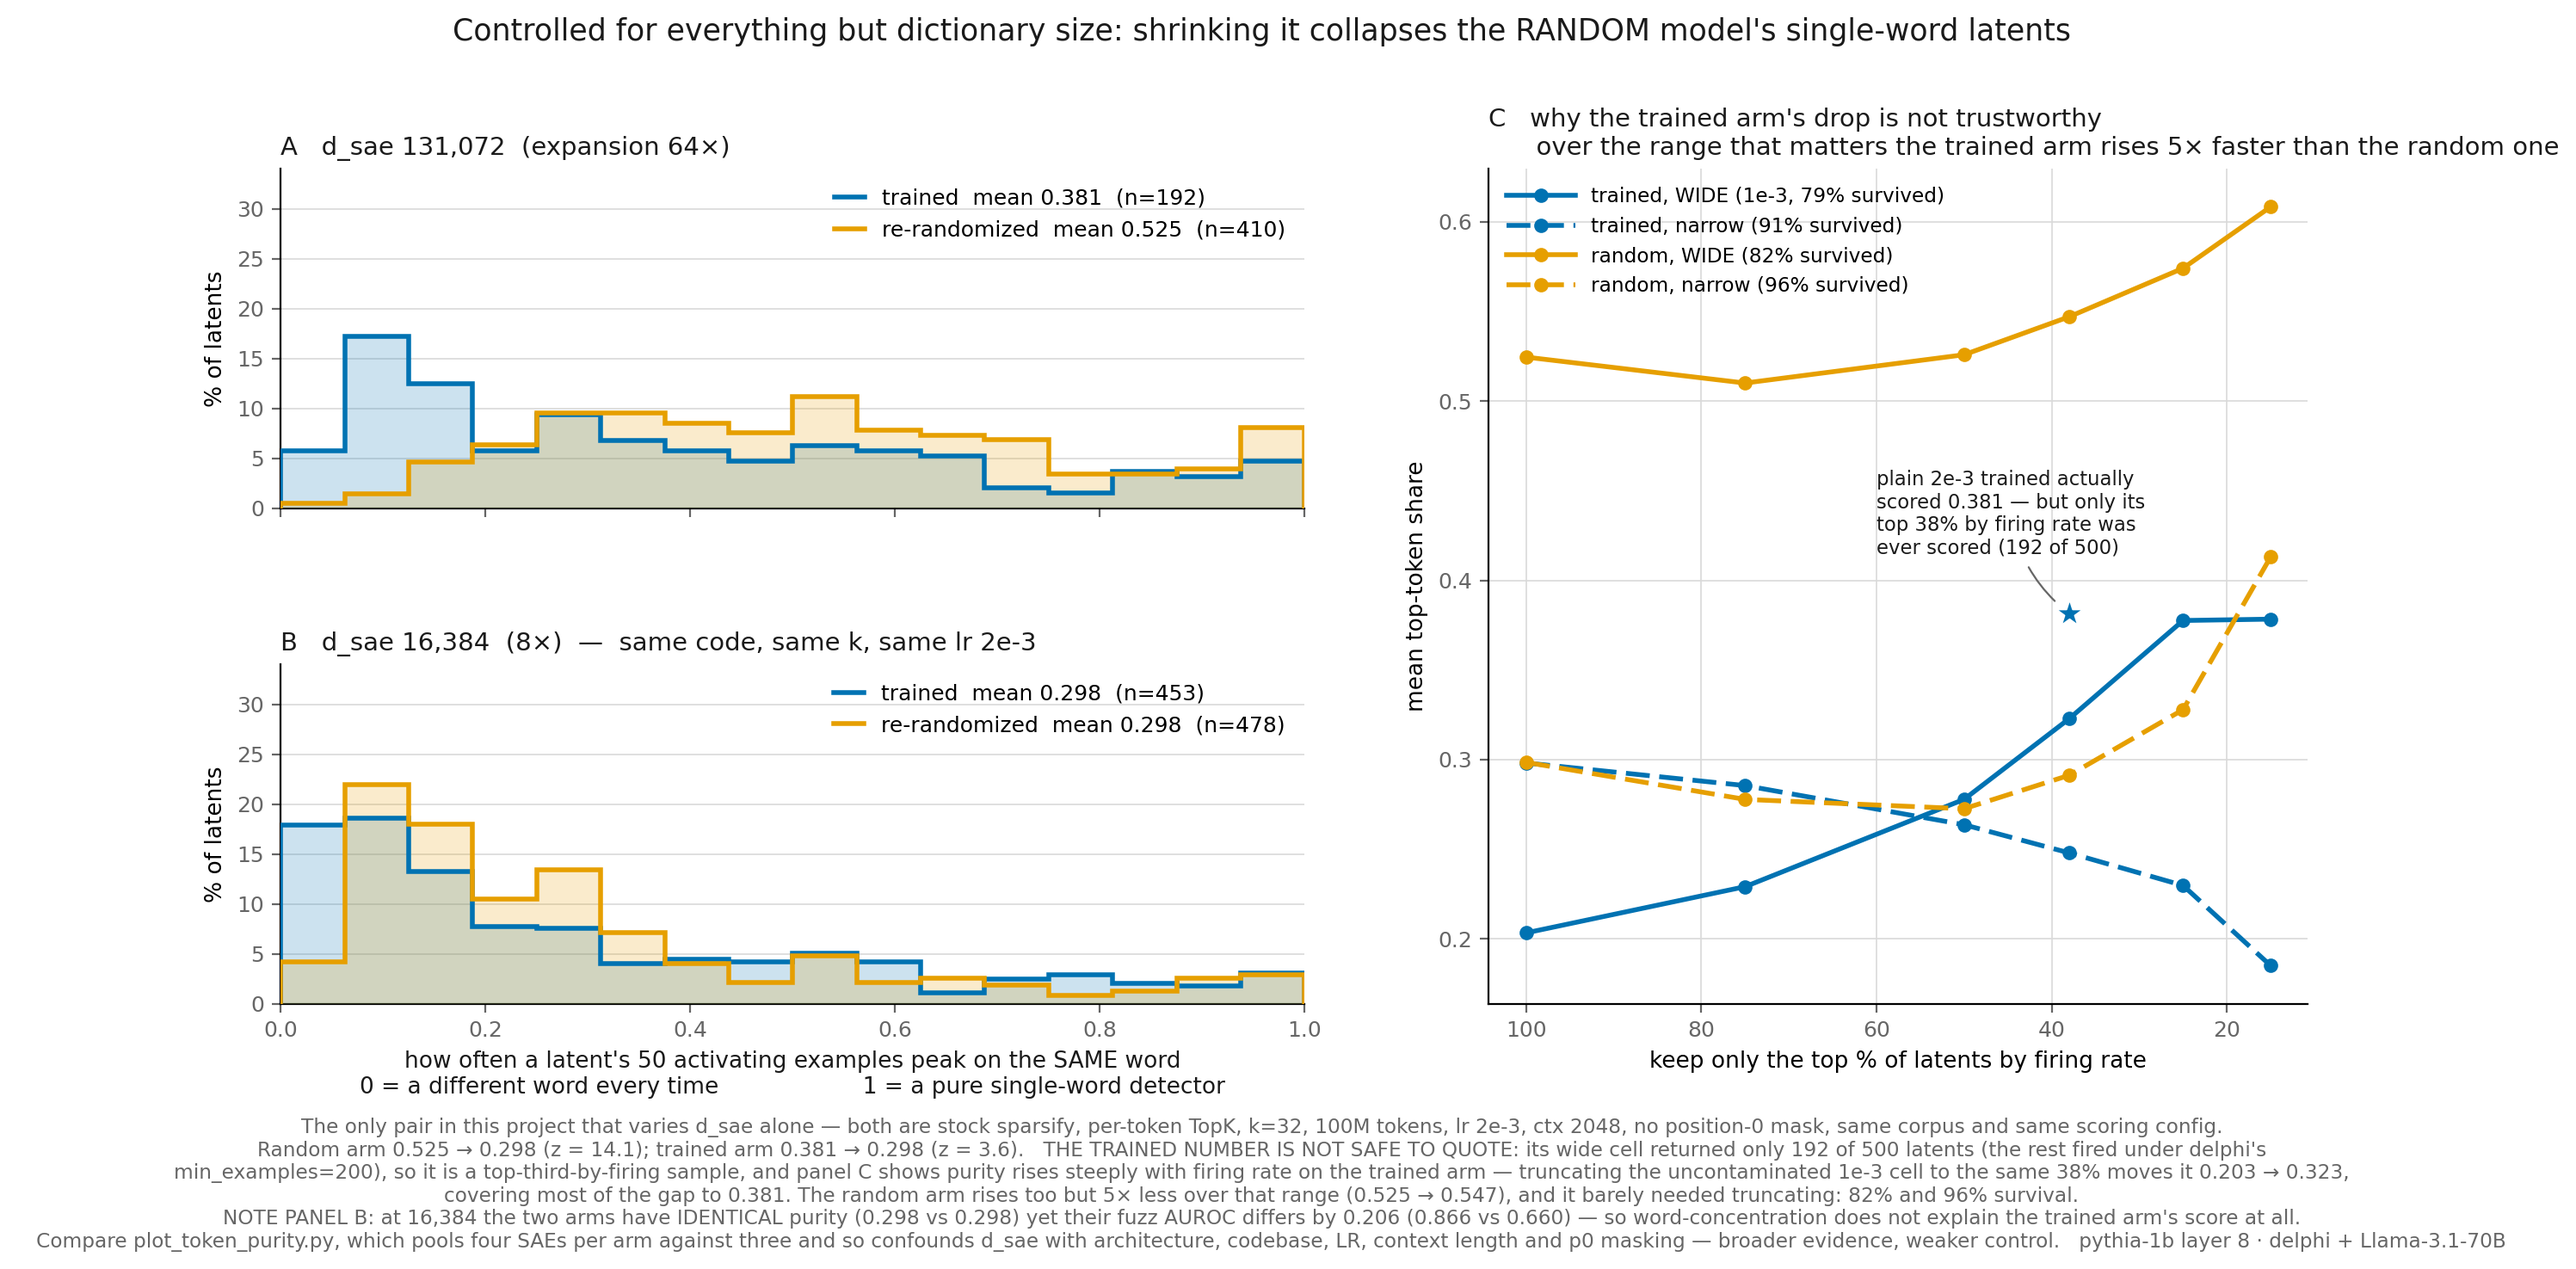
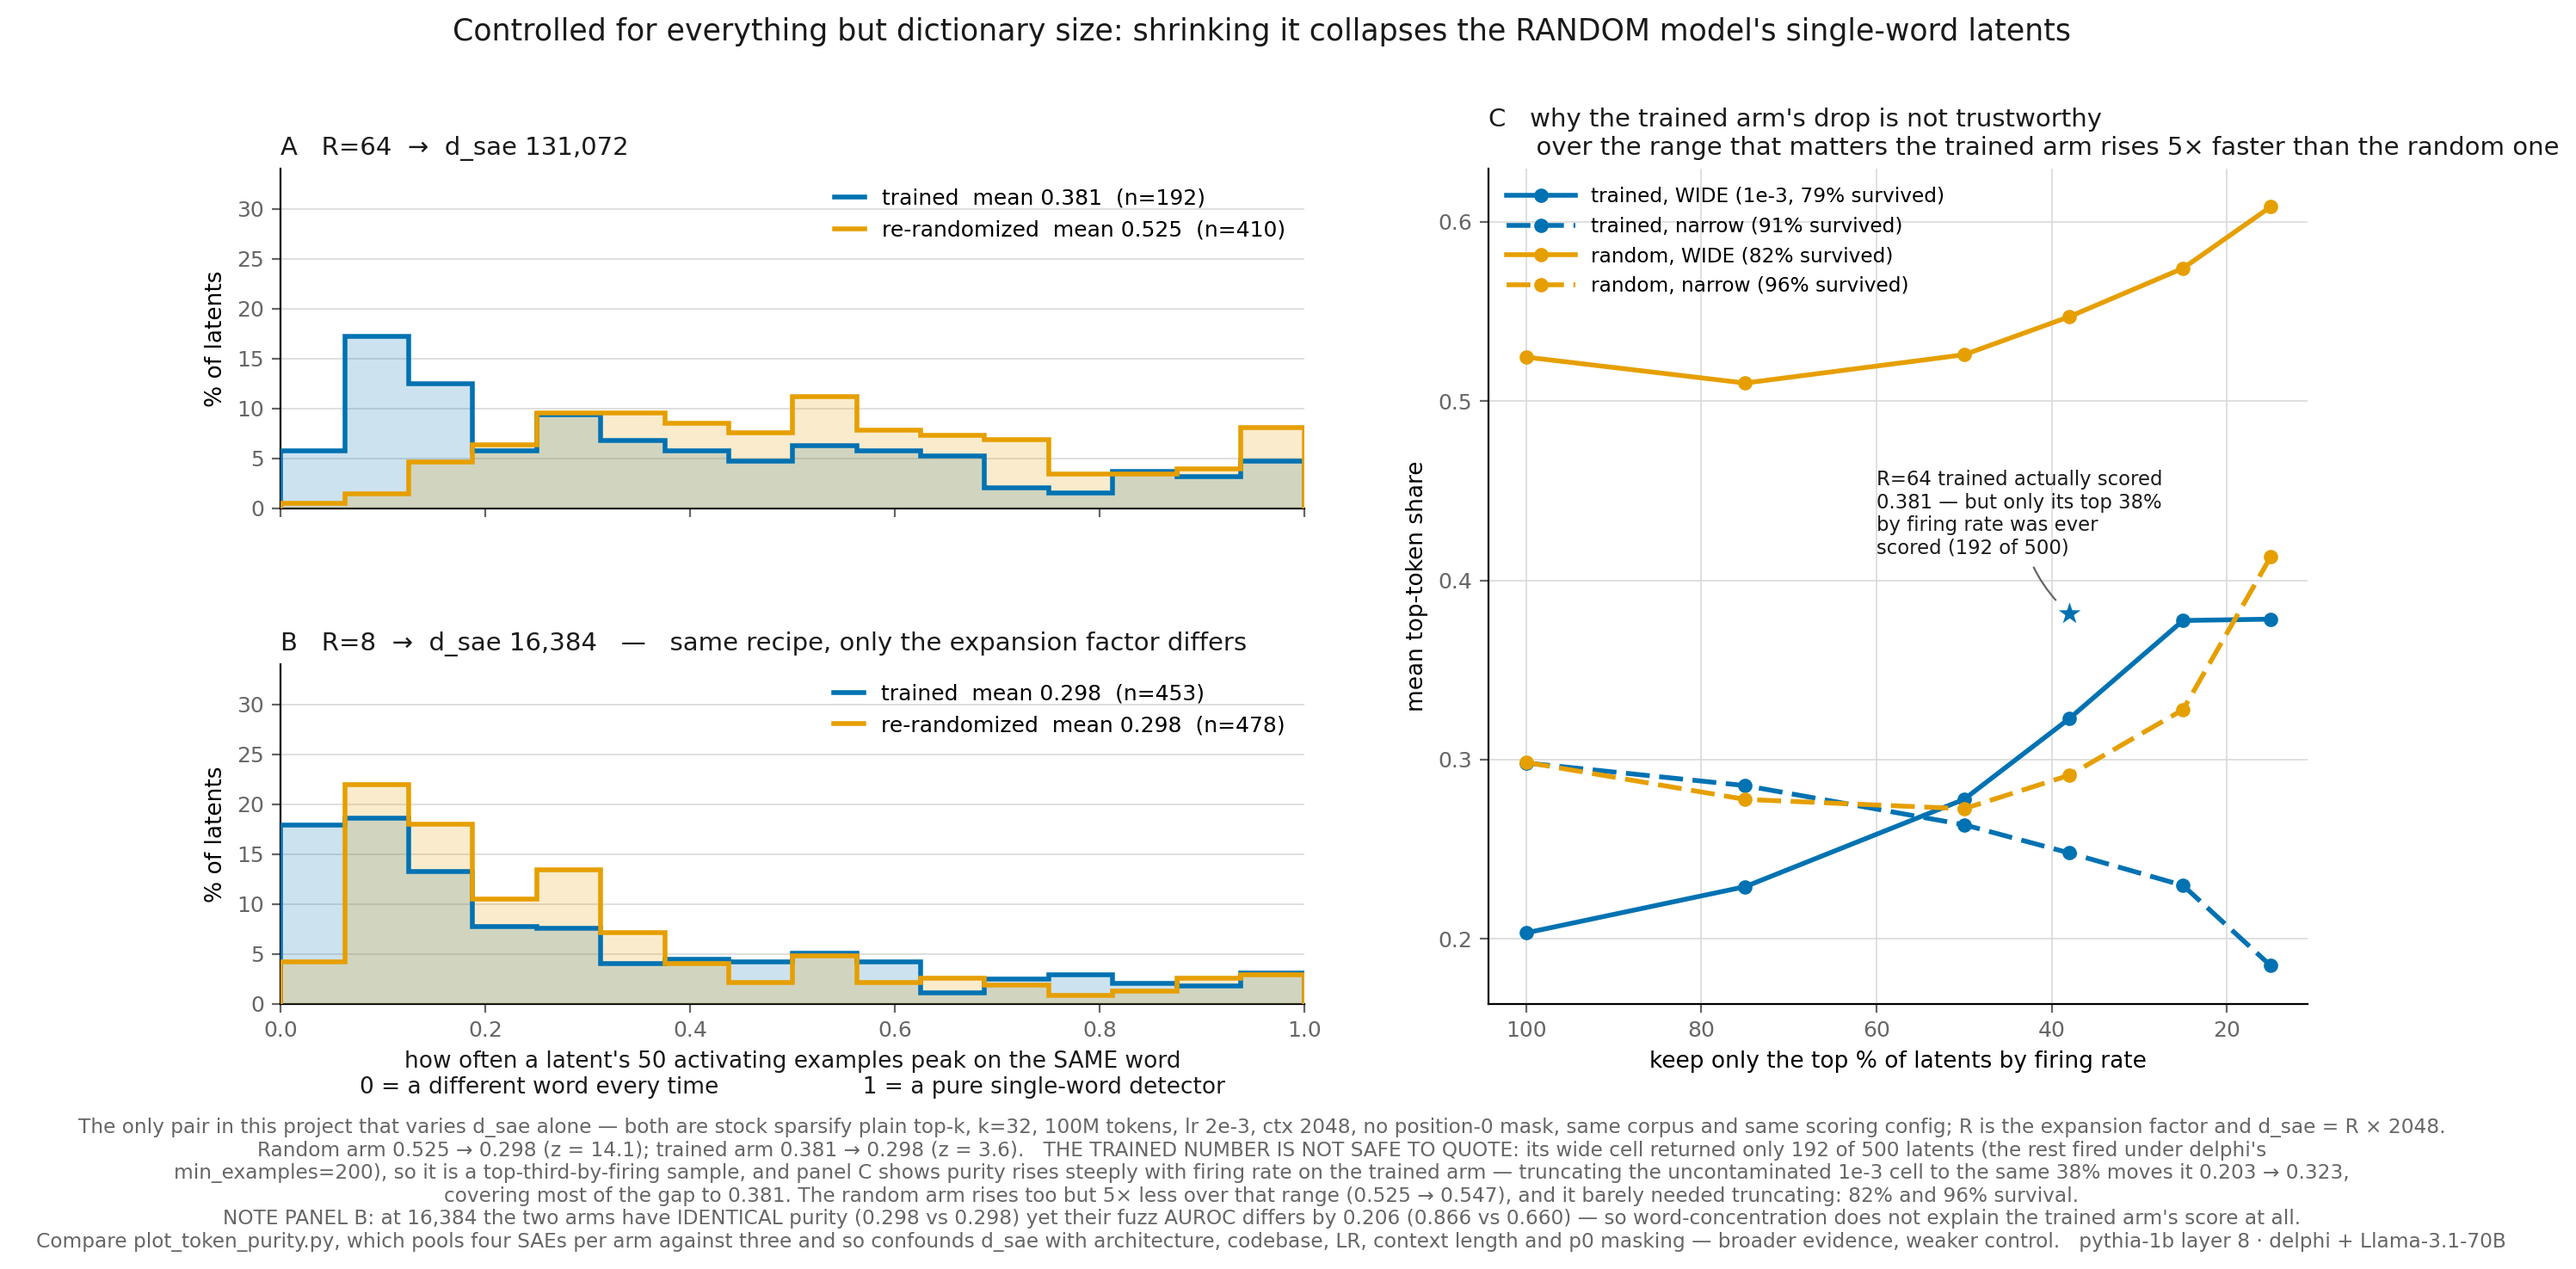
name every sparsify cell on one axis: architecture + R + LR
The old labels mixed axes -- "plain 2e-3" named the architecture,
"sparsify R=8" named the codebase and width -- so one recipe at two
dictionary sizes read as two different kinds of SAE. It is the same
sparsify plain top-k, k=32, 100M tokens, lr 2e-3, ctx 2048 in both;
R is the expansion factor and d_sae = R * d_model with d_model = 2048,
so R=64 gives 131,072 latents and R=8 gives 16,384.

  plain 1e-3    -> top-k R64 1e-3
  plain 2e-3    -> top-k R64 2e-3
  skipemb 1e-3  -> skip-emb R64 1e-3
  skipemb 2e-3  -> skip-emb R64 2e-3
  sparsify R=8  -> top-k R8 2e-3

Panel titles now lead with R and give d_sae as the consequence, and panel
B says outright that only the expansion factor differs. Figures regenerated.

diff --git a/SAE_linearmaps/randomized/pythia/plot_matched_purity.py b/SAE_linearmaps/randomized/pythia/plot_matched_purity.py
@@ -9,10 +9,13 @@ that the pattern holds broadly; they are not a controlled comparison.
 
 Exactly one pair in the project isolates d_sae:
 
-    plain top-k 2e-3  @ 131,072      sparsify, per-token TopK, ctx 2048, no p0 mask, lr 2e-3
-    plain top-k 2e-3  @  16,384      sparsify, per-token TopK, ctx 2048, no p0 mask, lr 2e-3
+    top-k R=64, lr 2e-3   d_sae 131,072   sparsify, per-token TopK, k=32, ctx 2048, no p0 mask
+    top-k R=8,  lr 2e-3   d_sae  16,384   sparsify, per-token TopK, k=32, ctx 2048, no p0 mask
 
-Same code, same architecture, same LR, same corpus, same scoring config. Only the dictionary.
+Both are the SAME recipe. R is the expansion factor and d_sae = R * d_model with d_model = 2048,
+so R=64 gives 131,072 latents and R=8 gives 16,384. Nothing else differs -- which is why the old
+labels ("plain top-k 2e-3" vs "sparsify R=8") were a mistake: they named one cell by architecture
+and the other by codebase+width, making one recipe at two sizes read as two different things.
 
 WHAT CHANGES WHEN YOU CONTROL. The random-arm collapse survives easily -- top-token share
 0.525 -> 0.298, z = 14.1 -- so the headline holds. But the TRAINED arm is no longer flat: it drops
@@ -52,12 +55,12 @@ ARM_COLOUR = {"trained": BLUE, "rand": ORANGE}
 ARM_LABEL = {"trained": "trained", "rand": "re-randomized"}
 ROOT = os.environ.get("RESULTS_DIR", "delphi_results")
 
-WIDE, NARROW = "plain 2e-3", "sparsify R=8"
-CELLFILE = {("plain 2e-3", "trained"): "pythia1b_trained_L8_lr2e-3",
-            ("plain 2e-3", "rand"): "pythia1b_rand_L8_lr2e-3",
-            ("sparsify R=8", "trained"): "pythia1b_trained_R8_L8_lr2e-3",
-            ("sparsify R=8", "rand"): "pythia1b_rand_R8_L8_lr2e-3",
-            ("plain 1e-3", "trained"): "pythia1b_trained_L8_lr1e-3"}
+WIDE, NARROW = "top-k R64 2e-3", "top-k R8 2e-3"
+CELLFILE = {("top-k R64 2e-3", "trained"): "pythia1b_trained_L8_lr2e-3",
+            ("top-k R64 2e-3", "rand"): "pythia1b_rand_L8_lr2e-3",
+            ("top-k R8 2e-3", "trained"): "pythia1b_trained_R8_L8_lr2e-3",
+            ("top-k R8 2e-3", "rand"): "pythia1b_rand_R8_L8_lr2e-3",
+            ("top-k R64 1e-3", "trained"): "pythia1b_trained_L8_lr1e-3"}
 NB = 16
 EDGES = [i / NB for i in range(NB + 1)]
 
@@ -92,8 +95,8 @@ gs = fig.add_gridspec(2, 2, width_ratios=[5, 4], hspace=0.46, wspace=0.20)
 axA, axB = fig.add_subplot(gs[0, 0]), fig.add_subplot(gs[1, 0])
 axC = fig.add_subplot(gs[:, 1])
 
-for ax, cell, tag in ((axA, WIDE, "A   d_sae 131,072  (expansion 64×)"),
-                      (axB, NARROW, "B   d_sae 16,384  (8×)  —  same code, same k, same lr 2e-3")):
+for ax, cell, tag in ((axA, WIDE, "A   R=64  →  d_sae 131,072"),
+                      (axB, NARROW, "B   R=8  →  d_sae 16,384   —   same recipe, only the expansion factor differs")):
     for arm in ("trained", "rand"):
         v = shares(cell, arm)
         m, se = tp.mean_se(v)
@@ -119,10 +122,10 @@ axA.tick_params(labelbottom=False)
 # ---------------------------------------------------------------- panel C, the survivorship control
 QS = [1.00, 0.75, 0.50, 0.38, 0.25, 0.15]
 DASH = (0, (5, 2))
-CURVES = [("plain 1e-3", "trained", BLUE, "-", "trained, WIDE (1e-3, 79% survived)"),
-          ("sparsify R=8", "trained", BLUE, DASH, "trained, narrow (91% survived)"),
-          ("plain 2e-3", "rand", ORANGE, "-", "random, WIDE (82% survived)"),
-          ("sparsify R=8", "rand", ORANGE, DASH, "random, narrow (96% survived)")]
+CURVES = [("top-k R64 1e-3", "trained", BLUE, "-", "trained, WIDE (1e-3, 79% survived)"),
+          ("top-k R8 2e-3", "trained", BLUE, DASH, "trained, narrow (91% survived)"),
+          ("top-k R64 2e-3", "rand", ORANGE, "-", "random, WIDE (82% survived)"),
+          ("top-k R8 2e-3", "rand", ORANGE, DASH, "random, narrow (96% survived)")]
 for cell, arm, col, ls, lab in CURVES:
     y, n = firing_curve(cell, arm, QS)
     axC.plot([100 * q for q in QS], y, color=col, ls=ls, lw=2.0, marker="o", ms=5,
@@ -132,8 +135,8 @@ for cell, arm, col, ls, lab in CURVES:
 obs = tp.mean_se(shares(WIDE, "trained"))[0]
 axC.scatter([38], [obs], s=150, marker="*", color=BLUE, zorder=6,
             edgecolor="white", linewidth=0.8)
-axC.annotate("plain 2e-3 trained actually\nscored 0.381 — but only its\ntop 38% by firing rate was\n"
-             "ever scored (192 of 500)",
+axC.annotate("R=64 trained actually scored\n0.381 — but only its top 38%\nby firing rate was ever\n"
+             "scored (192 of 500)",
              xy=(38, obs), xytext=(60, 0.437), ha="left", va="center", fontsize=8.2, color=INK,
              arrowprops=dict(arrowstyle="-", color=MUTED, lw=0.8,
                              shrinkA=2, shrinkB=8, connectionstyle="arc3,rad=0.2"))
@@ -160,9 +163,9 @@ zt = (tw - tn) / math.sqrt(tws ** 2 + tns ** 2)
 fig.suptitle("Controlled for everything but dictionary size: shrinking it collapses the RANDOM "
              "model's single-word latents", fontsize=12.5, color=INK, y=1.02)
 fig.text(0.5, -0.115,
-         f"The only pair in this project that varies d_sae alone — both are stock sparsify, "
-         f"per-token TopK, k=32, 100M tokens, lr 2e-3, ctx 2048, no position-0 mask, same corpus "
-         f"and same scoring config.\nRandom arm {mw:.3f} → {mn:.3f} (z = {zr:.1f}); trained arm "
+         f"The only pair in this project that varies d_sae alone — both are stock sparsify plain "
+         f"top-k, k=32, 100M tokens, lr 2e-3, ctx 2048, no position-0 mask, same corpus and same "
+         f"scoring config; R is the expansion factor and d_sae = R × 2048.\nRandom arm {mw:.3f} → {mn:.3f} (z = {zr:.1f}); trained arm "
          f"{tw:.3f} → {tn:.3f} (z = {zt:.1f}).   THE TRAINED NUMBER IS NOT SAFE TO QUOTE: its wide "
          f"cell returned only 192 of 500 latents (the rest fired under delphi's\n"
          f"min_examples=200), so it is a top-third-by-firing sample, and panel C shows purity rises "

diff --git a/SAE_linearmaps/randomized/pythia/token_purity.py b/SAE_linearmaps/randomized/pythia/token_purity.py
@@ -55,11 +55,11 @@ PURE   = float(os.environ.get("PURE", 0.9))     # top-token share at/above which
 
 # (label, cell format, d_sae). Same ordering as plot_arch_comparison.py.
 CELLS = [
-    ("plain 1e-3",   "pythia1b_{a}_L8_lr1e-3",       131072),
-    ("plain 2e-3",   "pythia1b_{a}_L8_lr2e-3",       131072),
-    ("skipemb 1e-3", "pythia1b_{a}_resid_L8_lr1e-3", 131072),
-    ("skipemb 2e-3", "pythia1b_{a}_resid_L8_lr2e-3", 131072),
-    ("sparsify R=8", "pythia1b_{a}_R8_L8_lr2e-3",     16384),
+    ("top-k R64 1e-3",   "pythia1b_{a}_L8_lr1e-3",       131072),
+    ("top-k R64 2e-3",   "pythia1b_{a}_L8_lr2e-3",       131072),
+    ("skip-emb R64 1e-3", "pythia1b_{a}_resid_L8_lr1e-3", 131072),
+    ("skip-emb R64 2e-3", "pythia1b_{a}_resid_L8_lr2e-3", 131072),
+    ("top-k R8 2e-3", "pythia1b_{a}_R8_L8_lr2e-3",     16384),
     ("temporal",     "pythia1b_{a}_tsae_L8",          16384),
     ("non-temporal", "pythia1b_{a}_base_L8",          16384),
 ]
